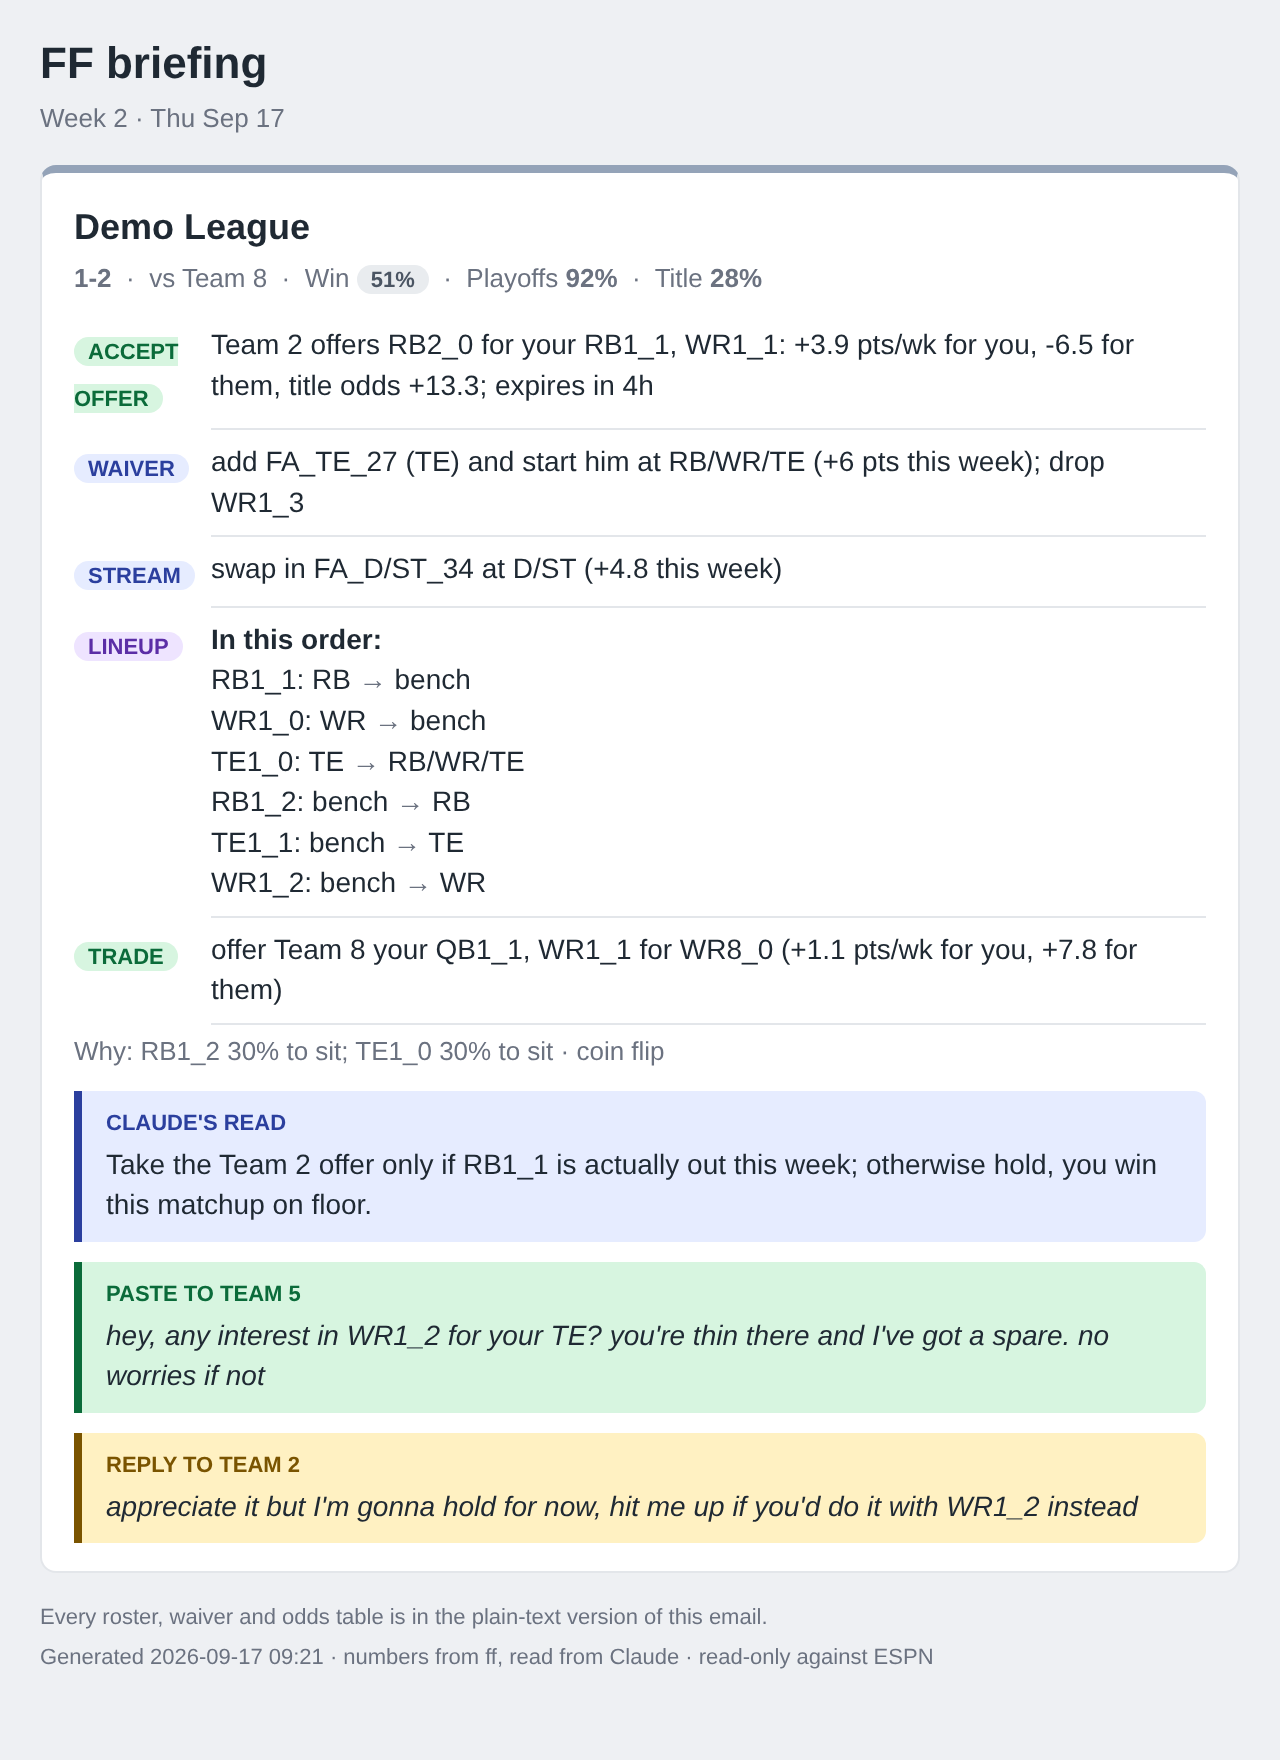
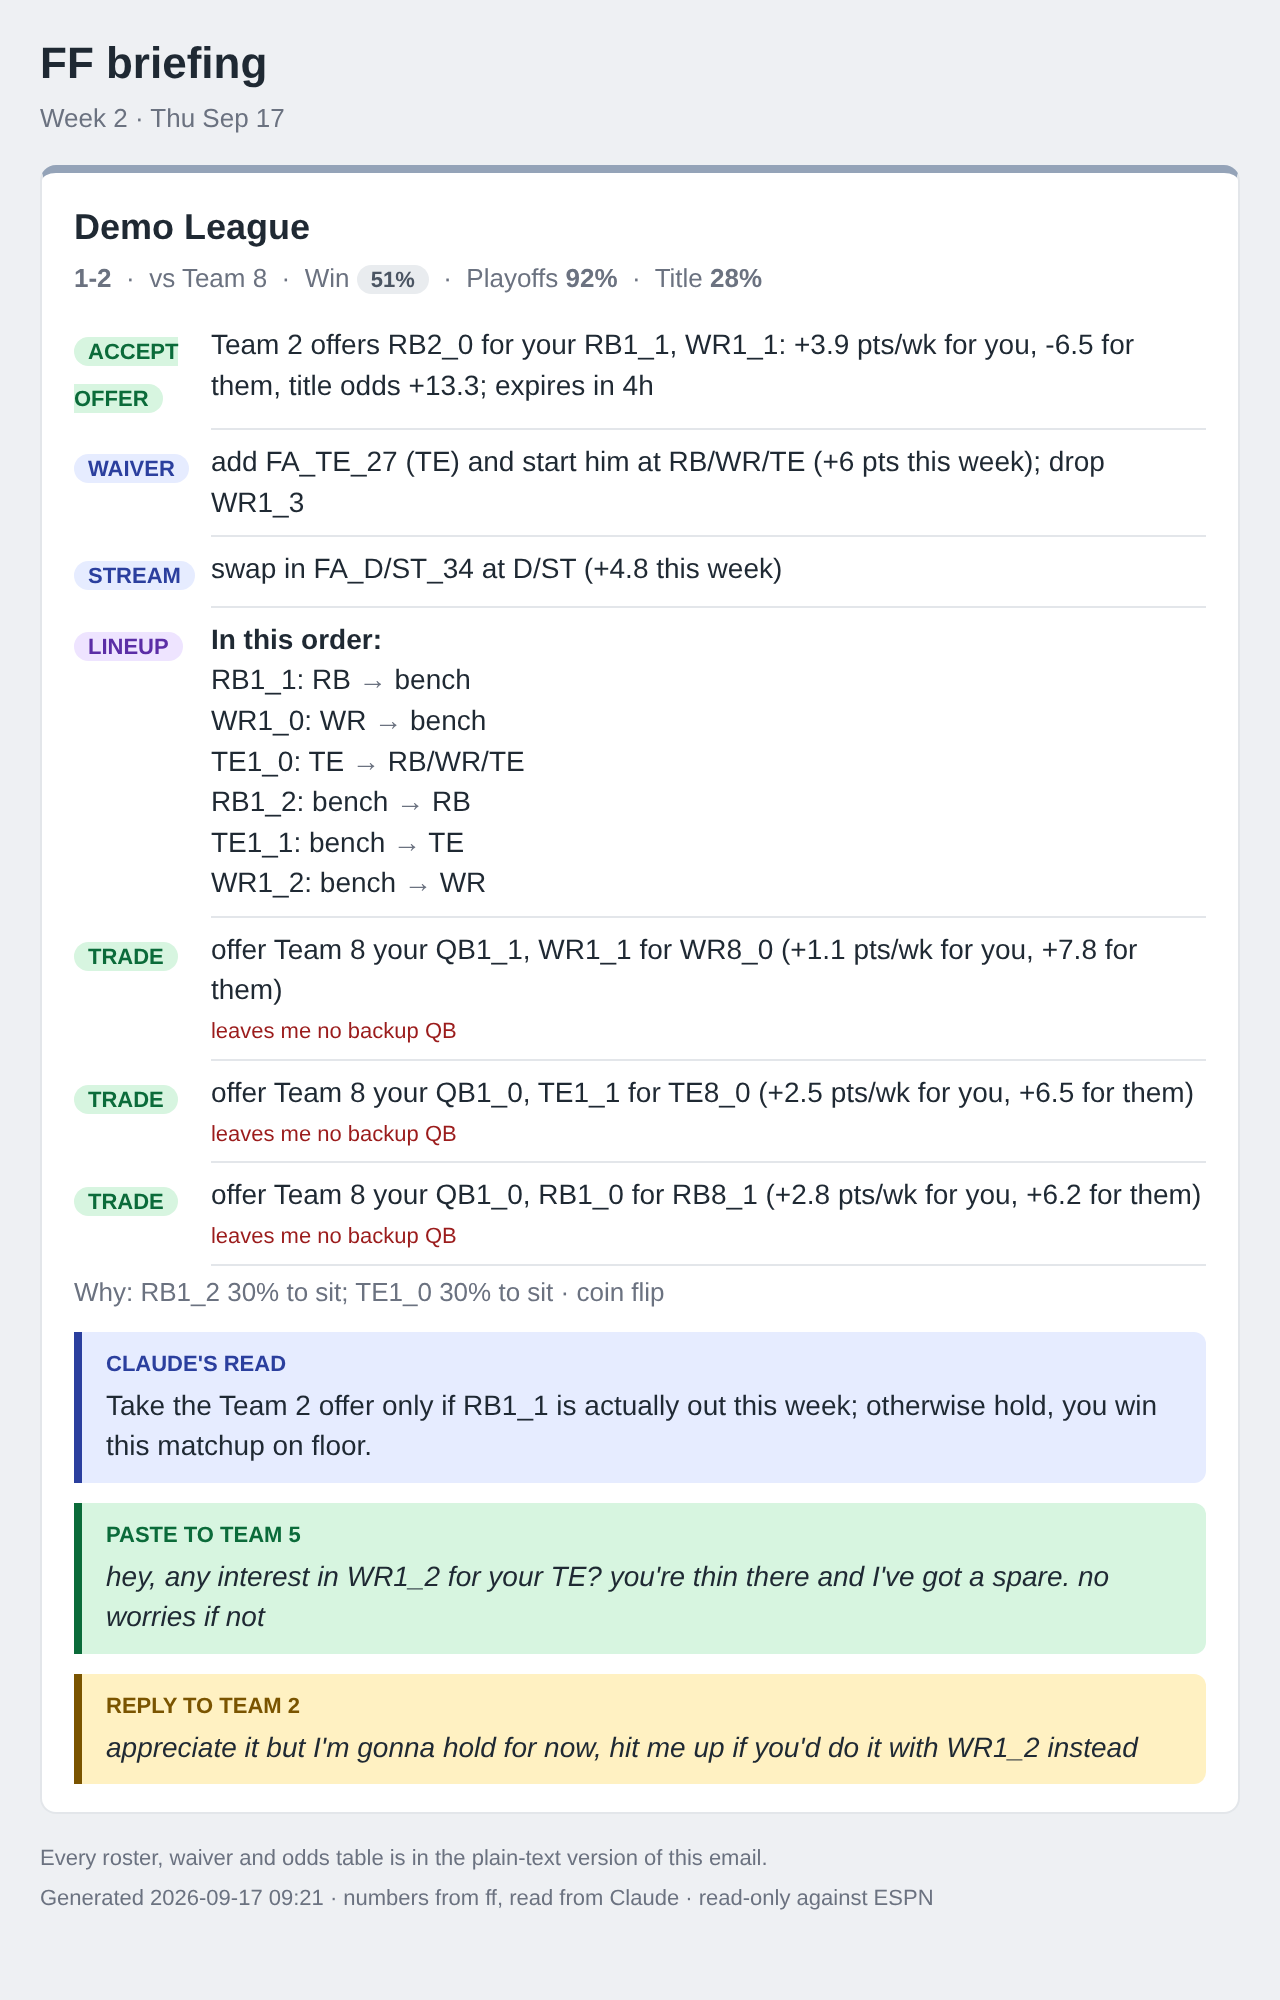
Card shows every sendable trade, with its depth warning, and the read must pick a side
- todos(): the checklist took lg["trades"][0] and stopped, so a day with three offers
  worth sending showed one. It now lists every trade that helps both sides, capped at 3,
  and falls back to a single "reach" row only when nothing is mutually good.
- The "leaves me no backup QB" caveat rode in the trade's why list, which since the HTML
  became action-cards-only reached the plain-text half alone. It now rides on the
  checklist row itself and renders in both the card (red, under the offer) and the
  markdown, which is the only place it does any good on a phone.
- briefing SKILL.md: when research contradicts a checklist item, the read has to open by
  saying so and name the item. The card is the model's math and the read is judgment;
  they may disagree, but the email has to end with one answer rather than a card saying
  do it and a paragraph saying don't. With up to three trade rows, name which one.

diff --git a/examples/briefing.html b/examples/briefing.html
@@ -6,7 +6,12 @@
 <tr><td valign="top" width="1" style="padding:6px 8px 6px 0"><span style="padding:1px 7px;border-radius:9px;font-size:11px;font-weight:600;background:#e6ecff;color:#2b3f9e">WAIVER</span></td><td valign="top" style="padding:6px 0;font-size:14px;border-bottom:1px solid #e3e6ea">add FA_TE_27 (TE) and start him at RB/WR/TE (+6 pts this week); drop WR1_3</td></tr>
 <tr><td valign="top" width="1" style="padding:6px 8px 6px 0"><span style="padding:1px 7px;border-radius:9px;font-size:11px;font-weight:600;background:#e6ecff;color:#2b3f9e">STREAM</span></td><td valign="top" style="padding:6px 0;font-size:14px;border-bottom:1px solid #e3e6ea">swap in FA_D/ST_34 at D/ST (+4.8 this week)</td></tr>
 <tr><td valign="top" width="1" style="padding:6px 8px 6px 0"><span style="padding:1px 7px;border-radius:9px;font-size:11px;font-weight:600;background:#eee4ff;color:#5b2ea6">LINEUP</span></td><td valign="top" style="padding:6px 0;font-size:14px;border-bottom:1px solid #e3e6ea"><b>In this order:</b><br>RB1_1: RB <span style="color:#6b7280">→</span> bench<br>WR1_0: WR <span style="color:#6b7280">→</span> bench<br>TE1_0: TE <span style="color:#6b7280">→</span> RB/WR/TE<br>RB1_2: bench <span style="color:#6b7280">→</span> RB<br>TE1_1: bench <span style="color:#6b7280">→</span> TE<br>WR1_2: bench <span style="color:#6b7280">→</span> WR</td></tr>
-<tr><td valign="top" width="1" style="padding:6px 8px 6px 0"><span style="padding:1px 7px;border-radius:9px;font-size:11px;font-weight:600;background:#d7f5e0;color:#0b6b3a">TRADE</span></td><td valign="top" style="padding:6px 0;font-size:14px;border-bottom:1px solid #e3e6ea">offer Team 8 your QB1_1, WR1_1 for WR8_0 (+1.1 pts/wk for you, +7.8 for them)</td></tr>
+<tr><td valign="top" width="1" style="padding:6px 8px 6px 0"><span style="padding:1px 7px;border-radius:9px;font-size:11px;font-weight:600;background:#d7f5e0;color:#0b6b3a">TRADE</span></td><td valign="top" style="padding:6px 0;font-size:14px;border-bottom:1px solid #e3e6ea">offer Team 8 your QB1_1, WR1_1 for WR8_0 (+1.1 pts/wk for you, +7.8 for them)<div style="color:#9b1c1c;font-size:11px;margin-top:2px">leaves me no backup QB</div>
+</td></tr>
+<tr><td valign="top" width="1" style="padding:6px 8px 6px 0"><span style="padding:1px 7px;border-radius:9px;font-size:11px;font-weight:600;background:#d7f5e0;color:#0b6b3a">TRADE</span></td><td valign="top" style="padding:6px 0;font-size:14px;border-bottom:1px solid #e3e6ea">offer Team 8 your QB1_0, TE1_1 for TE8_0 (+2.5 pts/wk for you, +6.5 for them)<div style="color:#9b1c1c;font-size:11px;margin-top:2px">leaves me no backup QB</div>
+</td></tr>
+<tr><td valign="top" width="1" style="padding:6px 8px 6px 0"><span style="padding:1px 7px;border-radius:9px;font-size:11px;font-weight:600;background:#d7f5e0;color:#0b6b3a">TRADE</span></td><td valign="top" style="padding:6px 0;font-size:14px;border-bottom:1px solid #e3e6ea">offer Team 8 your QB1_0, RB1_0 for RB8_1 (+2.8 pts/wk for you, +6.2 for them)<div style="color:#9b1c1c;font-size:11px;margin-top:2px">leaves me no backup QB</div>
+</td></tr>
 </table>
 <div style="color:#6b7280;font-size:13px;margin-top:4px">Why: RB1_2 30% to sit; TE1_0 30% to sit · coin flip</div>
 <table width="100%" cellpadding="0" cellspacing="0" border="0" style="margin:10px 0 0"><tr><td bgcolor="#e6ecff" style="border-left:4px solid #2b3f9e;border-radius:0 6px 6px 0;padding:8px 12px"><div style="font-size:11px;font-weight:700;color:#2b3f9e;text-transform:uppercase">Claude&#x27;s read</div>

diff --git a/src/ff/report.py b/src/ff/report.py
@@ -104,9 +104,14 @@ def todos(lg: dict) -> list[dict]:
         out.append({"kind": "lineup", "label": "Lineup (in order)" if ph == "pre" else "Lineup (only unplayed slots)", "text": " · ".join(ch), "moves": ch})
     else:
         out.append({"kind": "lineup", "label": "Lineup", "text": "leave as is" if ph == "pre" else "nothing left to change", "moves": []})
-    if lg["trades"]:
-        t = lg["trades"][0]
+    # Every offer that helps both sides is a thing I could actually send today, so list them (capped at 3 so the card
+    # stays a checklist). A "reach" only helps me, so at most one of those, and only when there is nothing better.
+    worth = [t for t in lg["trades"] if t["their_delta_ppw"] >= 0][:3]
+    for t in worth or lg["trades"][:1]:
         out.append({"kind": "trade", "label": f"Trade ({trade_tag(t)})", "worth": t["their_delta_ppw"] >= 0,
+                    # roster-depth warnings ride along with the row: the card is the whole HTML email, so a caveat
+                    # that only reached the detail tables would never be seen on a phone
+                    "warn": [w for w in t["why"] if w.startswith("leaves me")],
                     "text": f"offer {t['rival']} your {', '.join(t['give'])} for {', '.join(t['get'])} (+{t['my_delta_ppw']:.1f} pts/wk for you, {t['their_delta_ppw']:+.1f} for them)"})
     return out
 
@@ -177,7 +182,8 @@ def action_card(packet: dict, reads: dict | None = None) -> str:
             L.append(f"**{pl}**")
         L.append("")
         for x in todos(lg):
-            L.append(f"- **{x['label']}:** {x['text']}")
+            warn = f" — {'; '.join(x['warn'])}" if x.get("warn") else ""
+            L.append(f"- **{x['label']}:** {x['text']}{warn}")
         L.append("")
         why = why_parts(lg)
         if why:

diff --git a/tests/test_packet_synthetic.py b/tests/test_packet_synthetic.py
@@ -34,3 +34,17 @@ def test_end_to_end_synthetic(monkeypatch):
     pid = str(blk["roster"][0]["espn_id"])
     blk2 = analyze_league(snap, FakeXW(), {}, {}, {}, {}, overrides={pid: {"p_zero": 1.0}}, sims=100)
     assert blk2["roster"][-1]["espn_id"] == int(pid) or any(r["espn_id"] == int(pid) and r["p_zero"] == 1.0 for r in blk2["roster"])
+
+
+def test_card_lists_every_worth_sending_trade(monkeypatch):
+    """More than one sendable offer means more than one checklist row, capped at 3; reaches stay a single row."""
+    monkeypatch.setattr("ff.packet.fantasycalc.by_espn_id", lambda **kw: {})
+    blk = analyze_league(make_snapshot(), FakeXW(), {}, {}, {}, {}, overrides=None, sims=200)
+    rows = [t for t in report.todos(blk) if t["kind"] == "trade"]
+    worth = [t for t in blk["trades"] if t["their_delta_ppw"] >= 0][:3]
+    assert len(rows) <= 3
+    if worth:
+        assert len(rows) == len(worth) and all(r["worth"] for r in rows)
+        assert [r["text"].split(" your ")[0] for r in rows] == [f"offer {t['rival']}" for t in worth]
+    else:
+        assert len(rows) <= 1 and not any(r["worth"] for r in rows)

diff --git a/tests/test_email_html.py b/tests/test_email_html.py
@@ -74,3 +74,14 @@ def test_voice_lint_flags_ai_tells():
     assert any("not X, but Y" in w for w in warns)
     assert any(w.startswith("L1.paste") and "model" in w for w in warns)
     assert not any(w.startswith("L2") for w in warns)
+
+
+def test_depth_warning_reaches_both_renderers(monkeypatch):
+    """A 'leaves me no backup QB' caveat is useless if it only lands in the detail tables the HTML no longer carries."""
+    p = _packet(monkeypatch)
+    warns = [w for t in report.todos(p["leagues"][0]) for w in (t.get("warn") or [])]
+    assert warns, "the demo league's 2-for-1s ship a QB, so a depth warning is expected"
+    html, md = render_email(p), report.render(p)
+    for w in warns:
+        assert escape(w) in html, f"missing from the card: {w}"
+        assert w in md, f"missing from the plain text: {w}"

diff --git a/src/ff/email_html.py b/src/ff/email_html.py
@@ -162,6 +162,9 @@ def _todo_rows(lg: dict) -> str:
                 _e(m).replace(" → ", f' <span style="color:{MUTED}">→</span> ') for m in t["moves"])
         else:
             body = _e(t["text"])
+        if t.get("warn"):
+            warn_fg = TONES["bad"][1]
+            body += f'<div style="color:{warn_fg};font-size:11px;margin-top:2px">{_e("; ".join(t["warn"]))}</div>'
         rows.append(f'<tr><td valign="top" width="1" style="padding:6px 8px 6px 0">{_badge(label, tone)}</td>'
                     f'<td valign="top" style="padding:6px 0;font-size:14px;border-bottom:1px solid {BORDER}">{body}</td></tr>')
     return f'<table width="100%" cellpadding="0" cellspacing="0" border="0" style="margin-top:8px">{"".join(rows)}</table>'

diff --git a/.claude/skills/briefing/SKILL.md b/.claude/skills/briefing/SKILL.md
@@ -32,6 +32,11 @@ Follow these steps exactly. Do not invent numbers; every figure comes from `ff` 
             "paste": "<exact message Dustin can paste to the rival, only if a trade is worth sending>", "paste_to": "<rival team name>",
             "reply": "<what Dustin sends back on an incoming offer: a polite no for decline, a concrete tweak for counter; omit for accept>", "reply_to": "<rival team name>"}}`
    Only include `reply` when that league has an entry in `incoming_trades`.
+   If your research says a checklist item is wrong, say so in the first words of the read, in plain words, naming the
+   item: "skip the trade item below, Herbert and Daniels are the same player this year" or "don't make the waiver claim".
+   The card is the model's math and your read is judgment; they are allowed to disagree, but the email has to end with
+   one answer, not a card saying do it and a paragraph saying don't. A card may list up to three trade ideas: if you
+   only disagree with one, name which.
    Do NOT edit briefing.md or the HTML by hand. If research changes a checklist item (a player ruled out, a role change),
    that belongs in overrides.json (re-run step 5); the override `note` shows up next to the player in the email.
    Dustin reads this on a phone: keep each read short.

diff --git a/examples/briefing.md b/examples/briefing.md
@@ -7,7 +7,9 @@ _1-2 · vs Team 8 · win 51% · playoffs 91.9% · title 27.8%_
 - **Waiver:** add FA_TE_27 (TE) and start him at RB/WR/TE (+6 pts this week); drop WR1_3
 - **Stream:** swap in FA_D/ST_34 at D/ST (+4.8 this week)
 - **Lineup (in order):** RB1_1: RB → bench · WR1_0: WR → bench · TE1_0: TE → RB/WR/TE · RB1_2: bench → RB · TE1_1: bench → TE · WR1_2: bench → WR
-- **Trade (worth sending):** offer Team 8 your QB1_1, WR1_1 for WR8_0 (+1.1 pts/wk for you, +7.8 for them)
+- **Trade (worth sending):** offer Team 8 your QB1_1, WR1_1 for WR8_0 (+1.1 pts/wk for you, +7.8 for them) — leaves me no backup QB
+- **Trade (worth sending):** offer Team 8 your QB1_0, TE1_1 for TE8_0 (+2.5 pts/wk for you, +6.5 for them) — leaves me no backup QB
+- **Trade (worth sending):** offer Team 8 your QB1_0, RB1_0 for RB8_1 (+2.8 pts/wk for you, +6.2 for them) — leaves me no backup QB
 
 _Why: RB1_2 30% to sit; TE1_0 30% to sit · coin flip_  
 **Claude's read:** Take the Team 2 offer only if RB1_1 is actually out this week; otherwise hold, you win this matchup on floor.  
